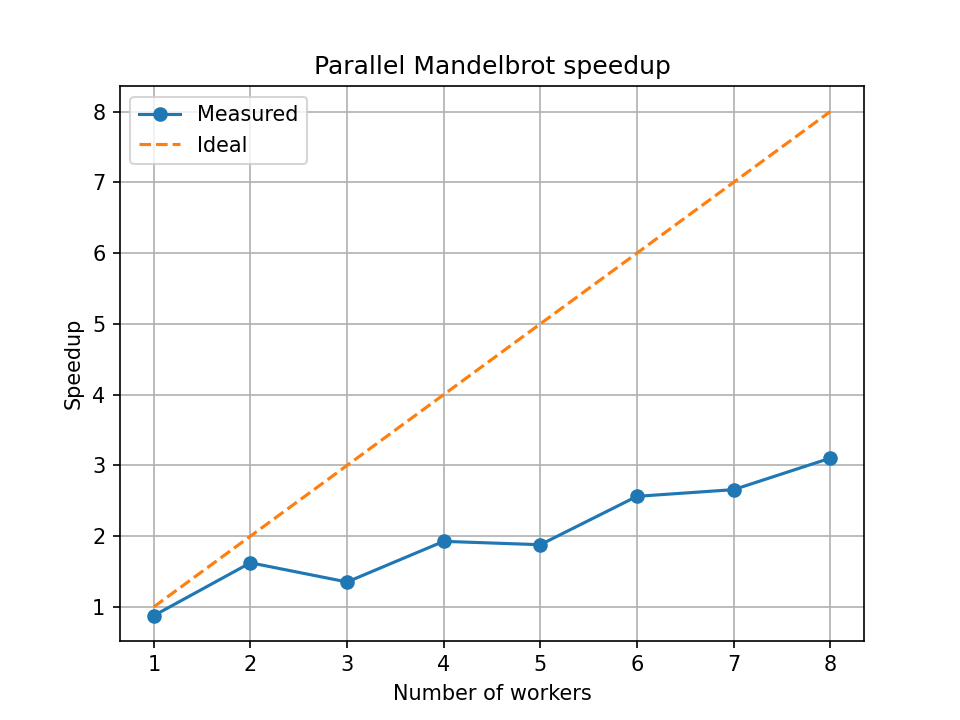
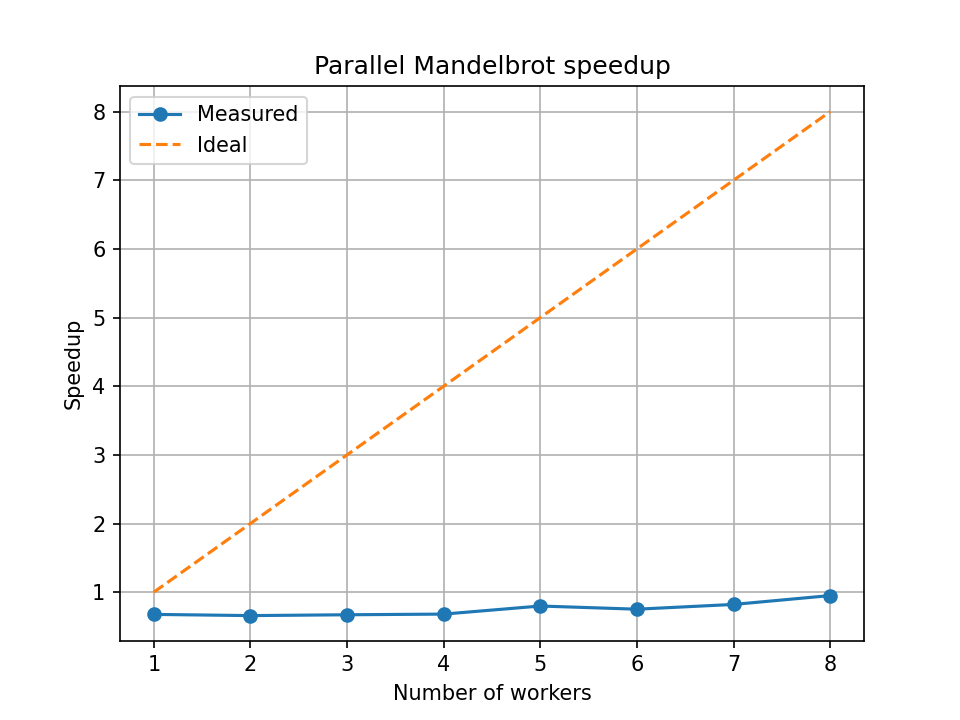
Adding a  tunable chunk count to parallel Mandelbrot

diff --git a/mandelbrot_parallel.py b/mandelbrot_parallel.py
@@ -10,7 +10,7 @@ import matplotlib.pyplot as plt
 
 
 #lesson4 milestone 1
-@njit
+@njit(cache=True)
 def mandelbrot_pixel(c_real, c_imag, max_iter):
     z_real = 0.0
     z_imag = 0.0
@@ -28,7 +28,7 @@ def mandelbrot_pixel(c_real, c_imag, max_iter):
     return max_iter
 
 
-@njit
+@njit(cache=True)
 def mandelbrot_chunk(row_start, row_end, N, x_min, x_max, y_min, y_max, max_iter):
     out = np.empty((row_end - row_start, N), dtype=np.int32)
 
@@ -54,9 +54,14 @@ def mandelbrot_serial(N, x_min, x_max, y_min, y_max, max_iter=100):
 def _worker(args):
     return mandelbrot_chunk(*args)
 
+#lesson 5 milestone 1: n_chunks=None
+def mandelbrot_parallel(N, x_min, x_max, y_min, y_max, max_iter=100, n_workers=4,n_chunks=None ):
+    
 
-def mandelbrot_parallel(N, x_min, x_max, y_min, y_max, max_iter=100, n_workers=4):
-    chunk_size = max(1, N // n_workers)
+    if n_chunks is None:
+        n_chunks = n_workers
+
+    chunk_size = max(1, N // n_chunks)
 
     chunks = []
     row = 0
@@ -64,6 +69,8 @@ def mandelbrot_parallel(N, x_min, x_max, y_min, y_max, max_iter=100, n_workers=4
         row_end = min(row + chunk_size, N)
         chunks.append((row, row_end, N, x_min, x_max, y_min, y_max, max_iter))
         row = row_end
+    
+    tiny = [(0, 8, 8, x_min, x_max, y_min, y_max, max_iter)]
 
     with Pool(processes=n_workers) as pool:
         parts = pool.map(_worker, chunks)
@@ -78,7 +85,13 @@ if __name__ == "__main__":
     max_iter = 100
 
     result_serial = mandelbrot_serial(N, x_min, x_max, y_min, y_max, max_iter)
-    result_parallel = mandelbrot_parallel(N, x_min, x_max, y_min, y_max, max_iter, n_workers=4)
+    result_parallel = mandelbrot_parallel(
+        N, x_min, x_max, y_min, y_max,
+        max_iter,
+        n_workers=4,
+        n_chunks=16
+    )
+
 
 
     result_old = compute_mandelbrot_numba(-2.5, 1.0, -1.25, 1.25, 1024, 1024, 100)
@@ -103,32 +116,35 @@ if __name__ == "__main__":
     results = []
 
     for n_workers in range(1, os.cpu_count() + 1):
-        chunk_size = max(1, N // n_workers)
-        chunks, row = [], 0
+        n_chunks = 4 * n_workers
 
-        while row < N:
-            end = min(row + chunk_size, N)
-            chunks.append((row, end, N, x_min, x_max, y_min, y_max, max_iter))
-            row = end
+        # warm-up
+        _ = mandelbrot_parallel(
+            N, x_min, x_max, y_min, y_max,
+            max_iter,
+            n_workers=n_workers,
+            n_chunks=n_chunks
+        )
 
-        with Pool(processes=n_workers) as pool:
-            pool.map(_worker, chunks)   # warm-up, untimed
-
-            times = []
-            for _ in range(3):
-                t0 = time.perf_counter()
-                parts = pool.map(_worker, chunks)
-                np.vstack(parts)
-                times.append(time.perf_counter() - t0)
+        times = []
+        for _ in range(3):
+            t0 = time.perf_counter()
+            mandelbrot_parallel(
+                N, x_min, x_max, y_min, y_max,
+                max_iter,
+                n_workers=n_workers,
+                n_chunks=n_chunks
+            )
+            times.append(time.perf_counter() - t0)
 
         t_par = statistics.median(times)
         speedup = t_serial / t_par
         efficiency = speedup / n_workers
 
-        results.append((n_workers, t_par, speedup, efficiency))
+        results.append((n_workers, n_chunks, t_par, speedup, efficiency))
 
         print(
-            f"{n_workers:2d} workers: "
+            f"{n_workers:2d} workers, {n_chunks:2d} chunks: "
             f"{t_par:.4f}s, speedup={speedup:.2f}x, efficiency={efficiency:.2f}"
         )
 
